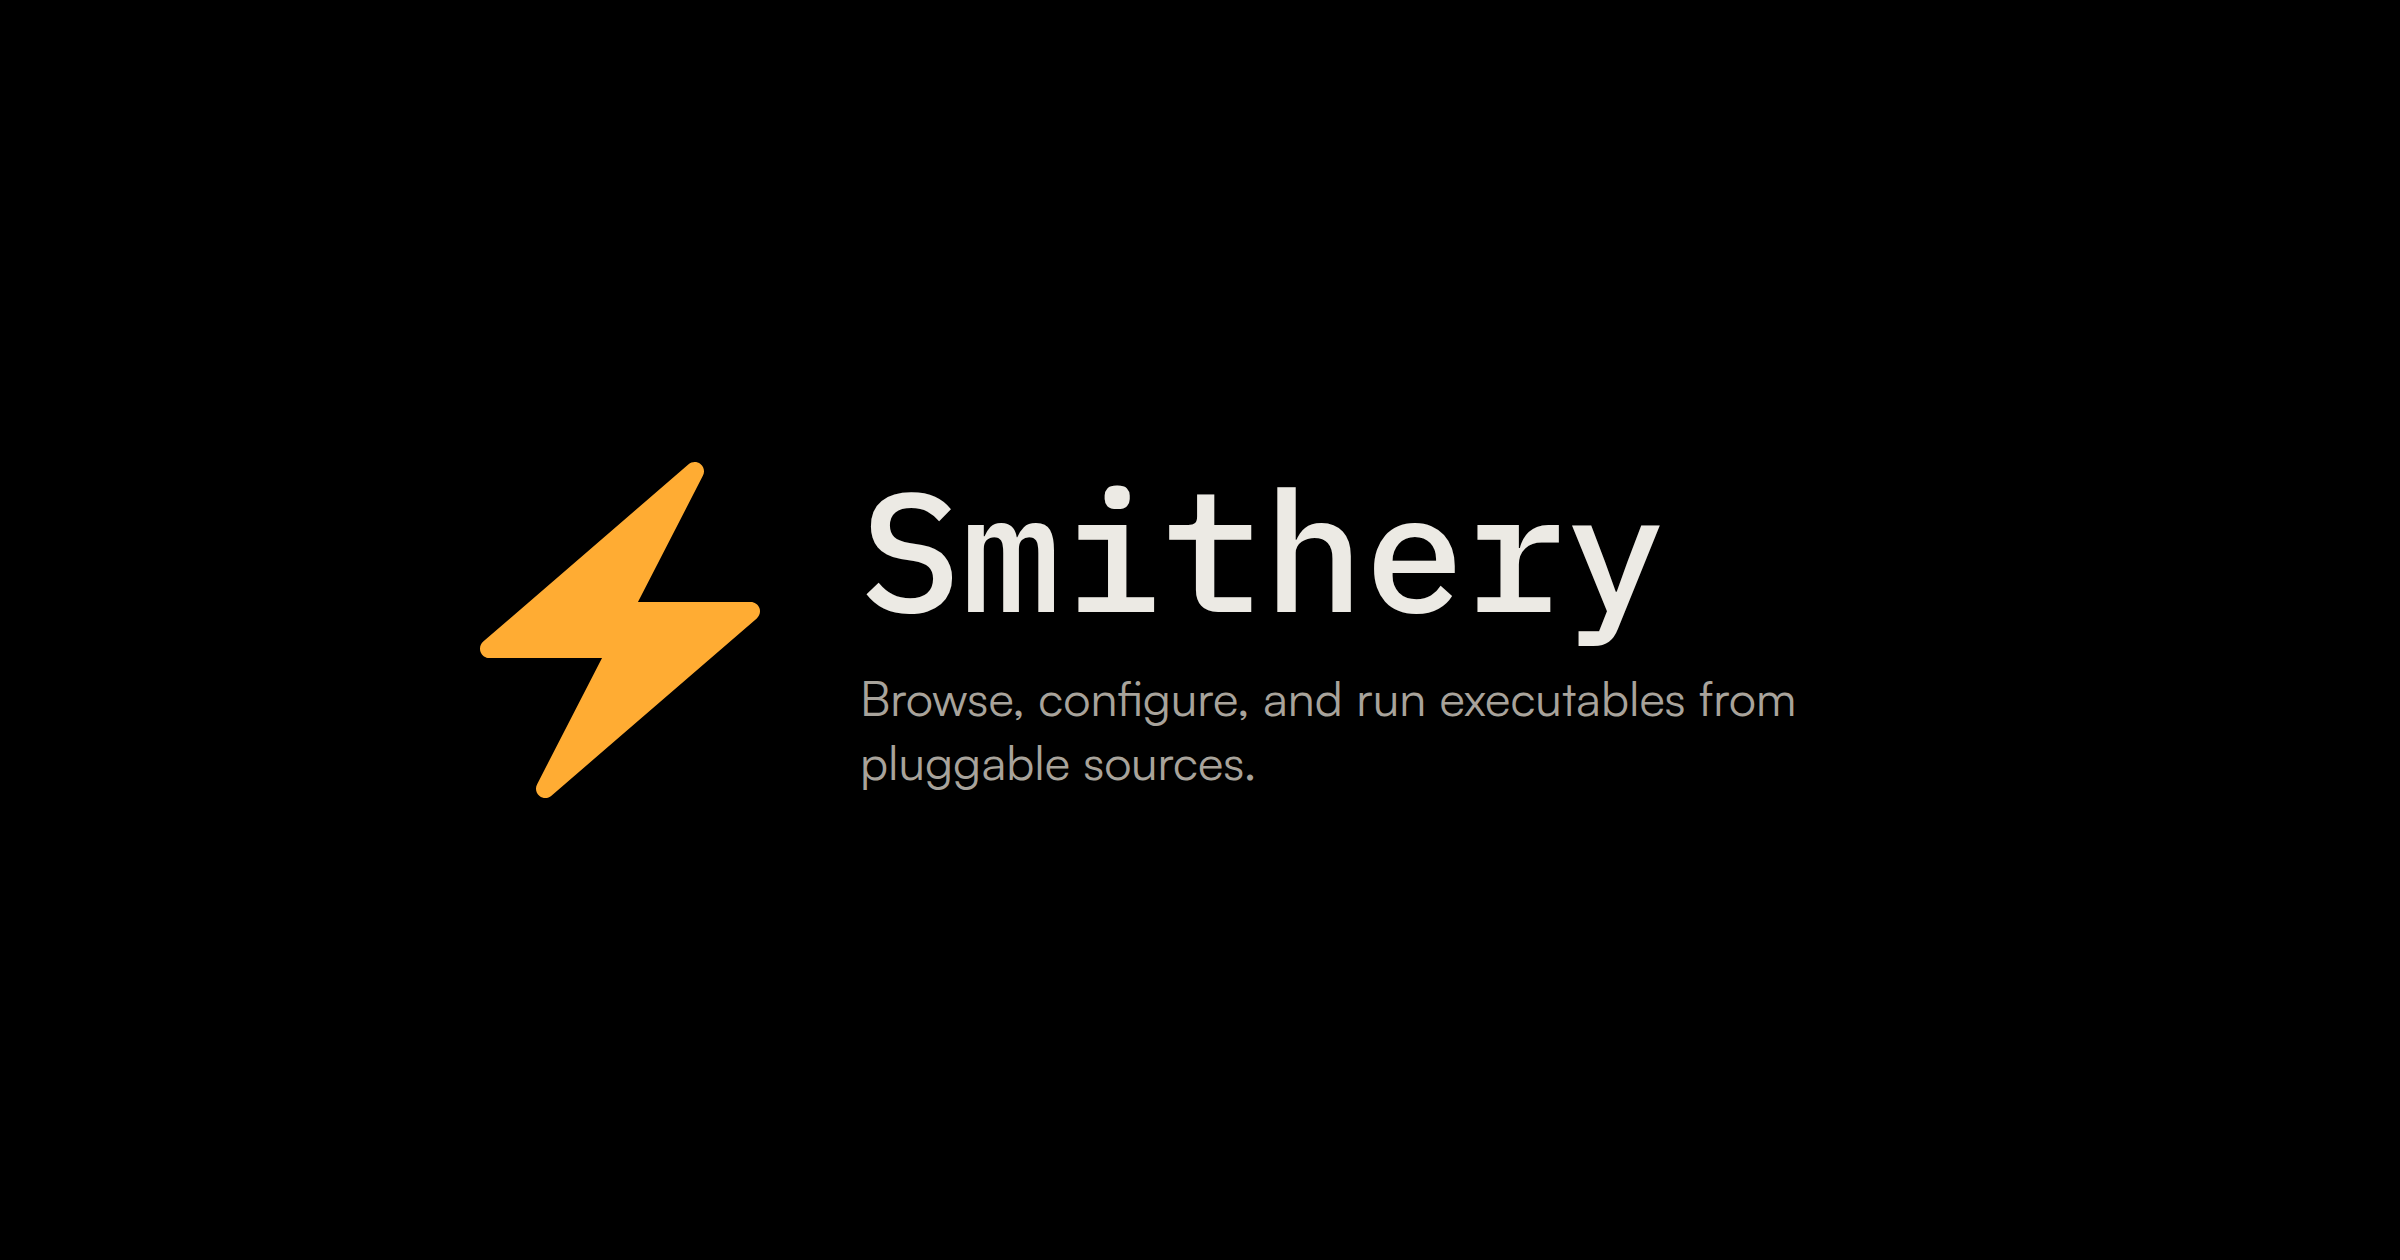
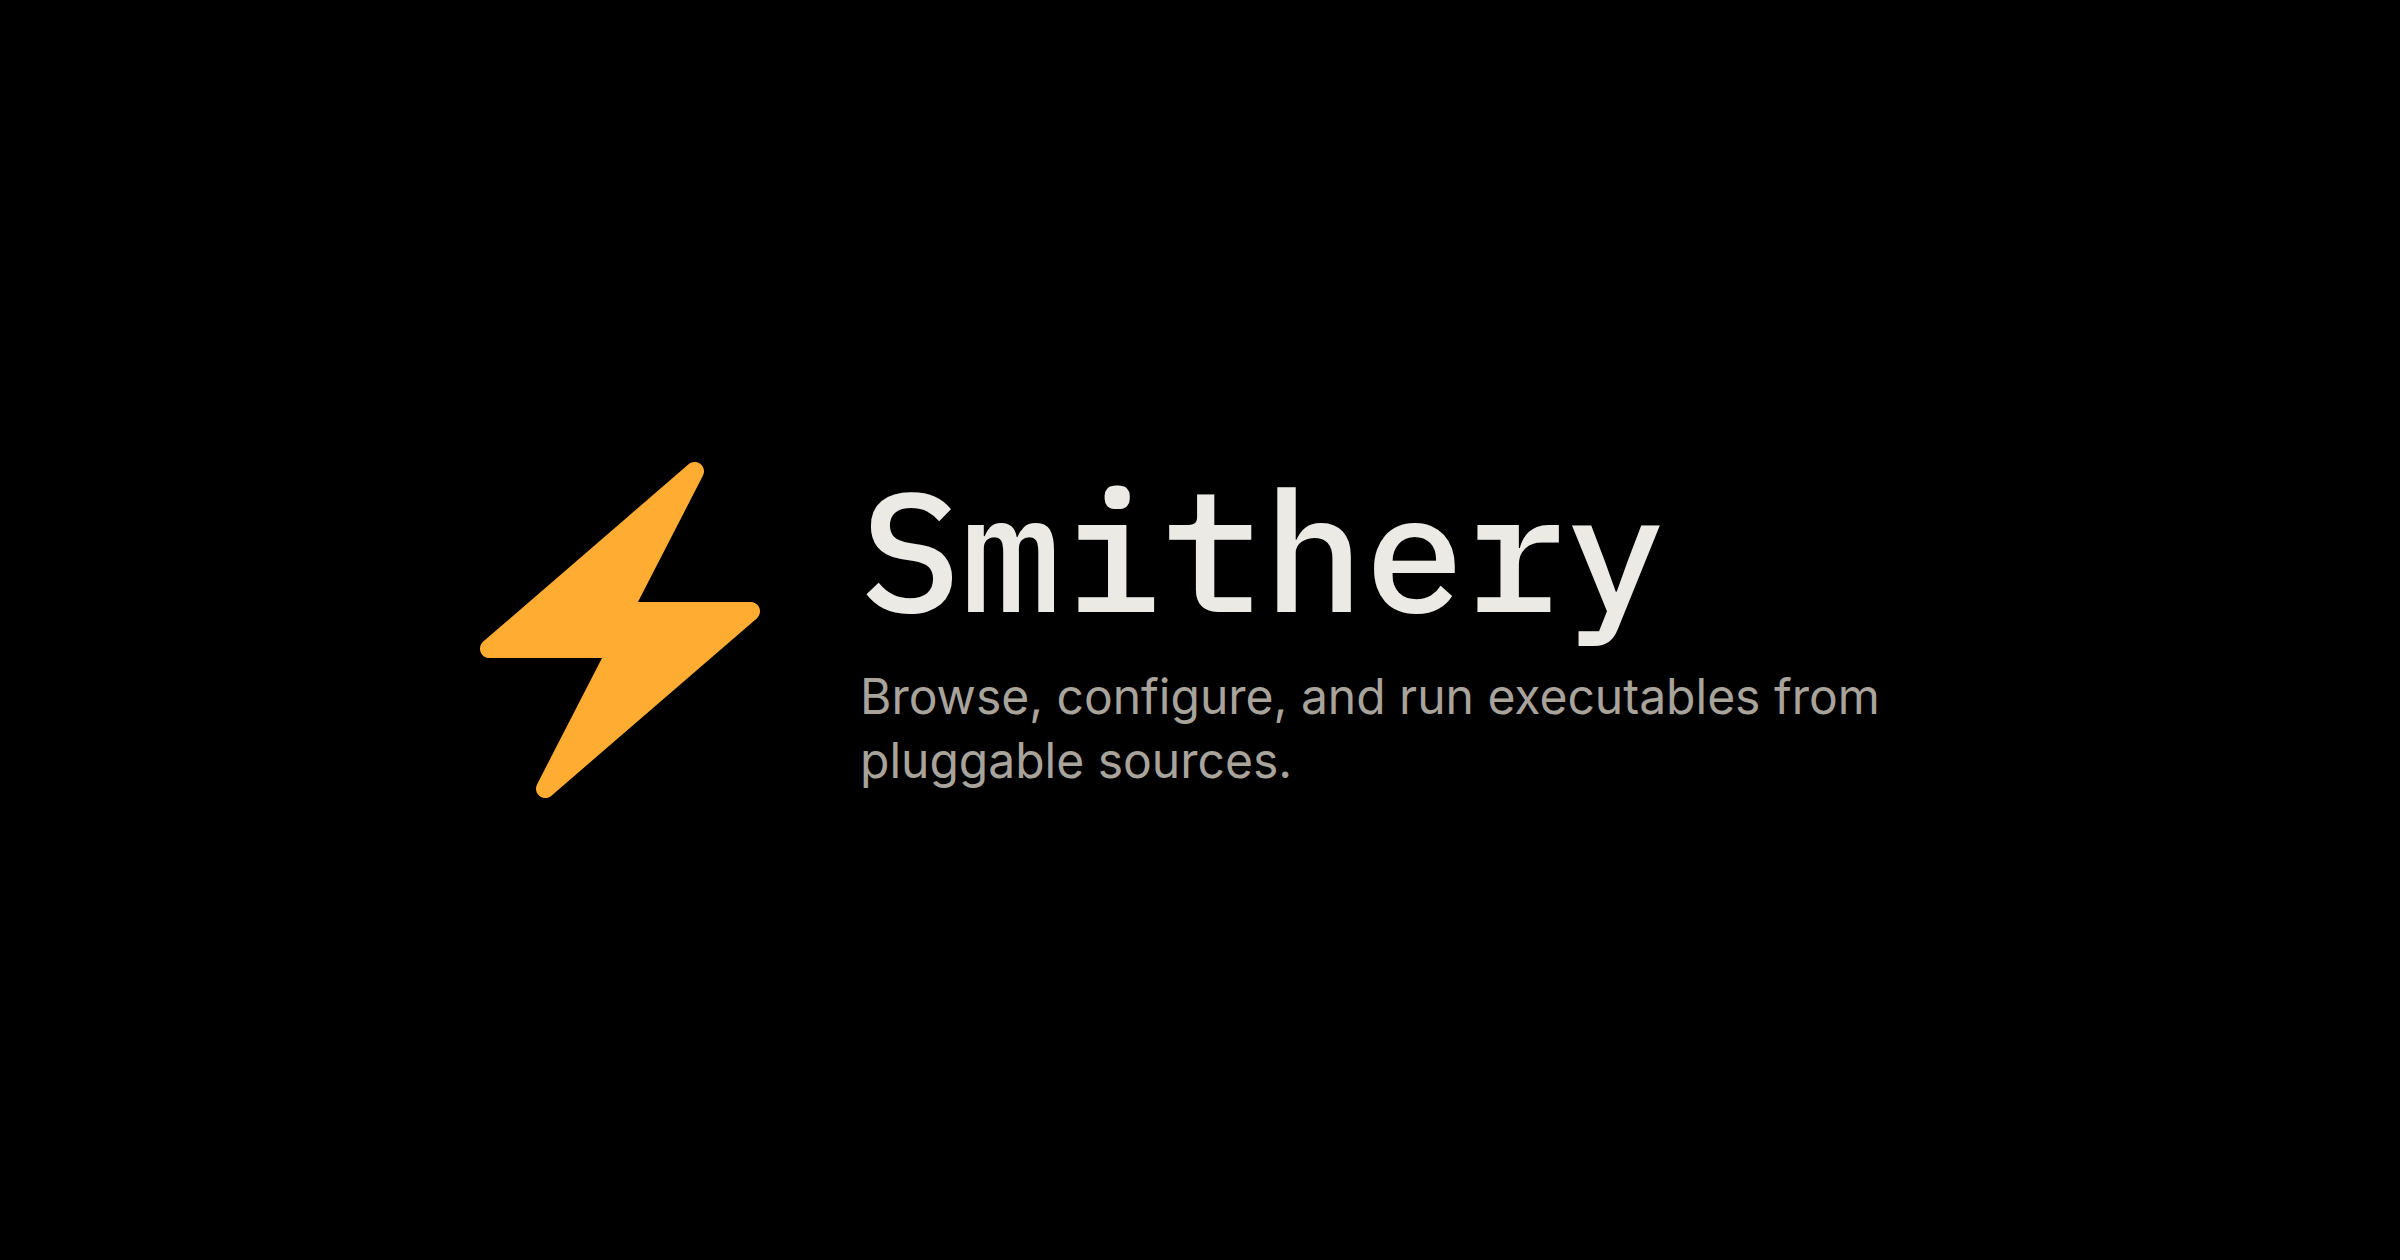
Use Inter from Google Fonts for body type
Replace Satoshi with Inter and keep IBM Plex Mono on the wordmark.

Changed region(s): [[0.3438, 0.5262, 0.7812, 0.65]]

diff --git a/examples/cloudflare/src/routes/__root.tsx b/examples/cloudflare/src/routes/__root.tsx
@@ -44,7 +44,6 @@ export const Route = createRootRoute({
     links: [
       { rel: 'icon', href: '/favicon.svg', type: 'image/svg+xml' },
       { rel: 'apple-touch-icon', href: '/og-image-square.png' },
-      { rel: 'preconnect', href: 'https://api.fontshare.com' },
       { rel: 'preconnect', href: 'https://fonts.googleapis.com' },
       {
         rel: 'preconnect',
@@ -53,11 +52,7 @@ export const Route = createRootRoute({
       },
       {
         rel: 'stylesheet',
-        href: 'https://api.fontshare.com/v2/css?f[]=satoshi@400,500,700&display=swap',
-      },
-      {
-        rel: 'stylesheet',
-        href: 'https://fonts.googleapis.com/css2?family=IBM+Plex+Mono:wght@400;500&display=swap',
+        href: 'https://fonts.googleapis.com/css2?family=IBM+Plex+Mono:wght@400;500&family=Inter:wght@400;500;700&display=swap',
       },
       { rel: 'stylesheet', href: appCss },
     ],

diff --git a/examples/docker/src/routes/__root.tsx b/examples/docker/src/routes/__root.tsx
@@ -44,7 +44,6 @@ export const Route = createRootRoute({
     links: [
       { rel: 'icon', href: '/favicon.svg', type: 'image/svg+xml' },
       { rel: 'apple-touch-icon', href: '/og-image-square.png' },
-      { rel: 'preconnect', href: 'https://api.fontshare.com' },
       { rel: 'preconnect', href: 'https://fonts.googleapis.com' },
       {
         rel: 'preconnect',
@@ -53,11 +52,7 @@ export const Route = createRootRoute({
       },
       {
         rel: 'stylesheet',
-        href: 'https://api.fontshare.com/v2/css?f[]=satoshi@400,500,700&display=swap',
-      },
-      {
-        rel: 'stylesheet',
-        href: 'https://fonts.googleapis.com/css2?family=IBM+Plex+Mono:wght@400;500&display=swap',
+        href: 'https://fonts.googleapis.com/css2?family=IBM+Plex+Mono:wght@400;500&family=Inter:wght@400;500;700&display=swap',
       },
       { rel: 'stylesheet', href: appCss },
     ],

diff --git a/examples/node/src/routes/__root.tsx b/examples/node/src/routes/__root.tsx
@@ -44,7 +44,6 @@ export const Route = createRootRoute({
     links: [
       { rel: 'icon', href: '/favicon.svg', type: 'image/svg+xml' },
       { rel: 'apple-touch-icon', href: '/og-image-square.png' },
-      { rel: 'preconnect', href: 'https://api.fontshare.com' },
       { rel: 'preconnect', href: 'https://fonts.googleapis.com' },
       {
         rel: 'preconnect',
@@ -53,11 +52,7 @@ export const Route = createRootRoute({
       },
       {
         rel: 'stylesheet',
-        href: 'https://api.fontshare.com/v2/css?f[]=satoshi@400,500,700&display=swap',
-      },
-      {
-        rel: 'stylesheet',
-        href: 'https://fonts.googleapis.com/css2?family=IBM+Plex+Mono:wght@400;500&display=swap',
+        href: 'https://fonts.googleapis.com/css2?family=IBM+Plex+Mono:wght@400;500&family=Inter:wght@400;500;700&display=swap',
       },
       { rel: 'stylesheet', href: appCss },
     ],

diff --git a/examples/vercel/src/routes/__root.tsx b/examples/vercel/src/routes/__root.tsx
@@ -44,7 +44,6 @@ export const Route = createRootRoute({
     links: [
       { rel: 'icon', href: '/favicon.svg', type: 'image/svg+xml' },
       { rel: 'apple-touch-icon', href: '/og-image-square.png' },
-      { rel: 'preconnect', href: 'https://api.fontshare.com' },
       { rel: 'preconnect', href: 'https://fonts.googleapis.com' },
       {
         rel: 'preconnect',
@@ -53,11 +52,7 @@ export const Route = createRootRoute({
       },
       {
         rel: 'stylesheet',
-        href: 'https://api.fontshare.com/v2/css?f[]=satoshi@400,500,700&display=swap',
-      },
-      {
-        rel: 'stylesheet',
-        href: 'https://fonts.googleapis.com/css2?family=IBM+Plex+Mono:wght@400;500&display=swap',
+        href: 'https://fonts.googleapis.com/css2?family=IBM+Plex+Mono:wght@400;500&family=Inter:wght@400;500;700&display=swap',
       },
       { rel: 'stylesheet', href: appCss },
     ],

diff --git a/packages/app/src/styles.css b/packages/app/src/styles.css
@@ -30,7 +30,7 @@
 }
 
 @theme {
-  --font-sans: "Satoshi", system-ui, sans-serif;
+  --font-sans: "Inter", system-ui, sans-serif;
   --font-mono: "IBM Plex Mono", ui-monospace, monospace;
   --color-paper: var(--paper);
   --color-ink: var(--ink);
